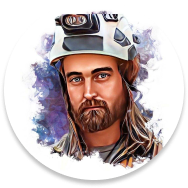
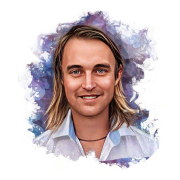
feat: team

diff --git a/src/views/Team.vue b/src/views/Team.vue
@@ -2,83 +2,209 @@
 	<div class="home min-h-full container">
 		<MenuHeader />
 
-		<div class="columns m-5 pt-5">
-			<div class="column is-5 info-div p-5">
-				<p class="font-size-40-light-info">James</p>
-				<p class="font-size-22-light-info text-word-wrap">
[1 lines of base64/hex data omitted]
-				</p>
+		<div class="columns m-5 p-4">
+			<div class="column is-5 info-div p-4">
+				<div class="level p-4">
+					<div class="level-left">
+						<p class="font-size-40-light-info p-4">Josiah</p>
+					</div>
+					<!-- <div class="level-right">
+						<img src="/josiah.png" ratio="110by28" />
+					</div> -->
+				</div>
+
+				<div class="p-4">
+					<p class="font-size-22-light-info text-word-wrap">
+						Josiah is the founder and leader of DeStore, the first
+						phygital marketplace in Web3.0. He is interested in
+						partnering with organizations to showcase the value of
+						phygital assets and their utility in web3.0. Josiah
+						believes that Web 3.0 has the power to drastically
+						change commerce and is dedicated to making this a
+						reality.
+					</p>
+				</div>
+				<div class="level p-4">
+					<div class="level-left">
+						<img src="/linkedin.png" ratio="110by28" />
+					</div>
+
+					<div class="level-right">
+						<img src="/twitter.png" ratio="110by28" />
+					</div>
+				</div>
 			</div>
 			<div class="column is-2"></div>
-			<div class="column is-5 info-div p-5">
-				<p class="font-size-40-light-info">James</p>
-				<p class="font-size-22-light-info text-word-wrap">
[1 lines of base64/hex data omitted]
-				</p>
+			<div class="column is-5 info-div p-4">
+				<div class="level p-4">
+					<div class="level-left">
+						<p class="font-size-40-light-info p-4">James</p>
+					</div>
+				</div>
+
+				<div class="p-4">
+					<p class="font-size-22-light-info text-word-wrap">
+						James is a highly experienced software engineer with a
+						background in blockchain technology. He is passionate
+						about using decentralization to make a positive impact
+						on the world through commerce. He has been working on
+						the DeStore project since its inception and is committed
+						to bringing its disruptive vision to fruition.
+					</p>
+				</div>
+				<div class="level p-4">
+					<div class="level-left">
+						<img src="/linkedin.png" ratio="110by28" />
+					</div>
+
+					<div class="level-right">
+						<img src="/twitter.png" ratio="110by28" />
+					</div>
+				</div>
 			</div>
 		</div>
 
-		<div class="columns m-5 pt-5">
-			<div class="column is-5 info-div p-5">
-				<p class="font-size-40-light-info">Josiah</p>
-				<p class="font-size-22-light-info text-word-wrap">
[1 lines of base64/hex data omitted]
-				</p>
+		<div class="columns m-5 p-4">
+			<div class="column is-5 info-div p-4">
+				<div class="level p-4">
+					<div class="level-left">
+						<p class="font-size-40-light-info p-4">Lisa</p>
+					</div>
+					<!-- <div class="level-right">
+						<img src="/josiah.png" ratio="110by28" />
+					</div> -->
+				</div>
+
+				<div class="p-4">
+					<p class="font-size-22-light-info text-word-wrap">
+						Lisa van Heijningen is highly experienced in
+						communication and organizational skills, and has an eye
+						for quality and problem-solving. She is ambitious and a
+						quick learner, and is eager to contribute to teamwork
+						and a positive work environment. Lisa has also worked
+						with the Discovery Channel and was a part of the
+						building of DeStore, the first phygital marketplace in
+						Web3.0.
+					</p>
+				</div>
+				<div class="level p-4">
+					<div class="level-left">
+						<img src="/linkedin.png" ratio="110by28" />
+					</div>
+
+					<div class="level-right">
+						<img src="/twitter.png" ratio="110by28" />
+					</div>
+				</div>
 			</div>
 			<div class="column is-2"></div>
-			<div class="column is-5 info-div p-5">
-				<p class="font-size-40-light-info">Josiah</p>
-				<p class="font-size-22-light-info text-word-wrap">
[1 lines of base64/hex data omitted]
-				</p>
+			<div class="column is-5 info-div p-4">
+				<div class="level p-4">
+					<div class="level-left">
+						<p class="font-size-40-light-info p-4">Levi</p>
+					</div>
+				</div>
+
+				<div class="p-4">
+					<p class="font-size-22-light-info text-word-wrap">
+						Levi is a recent graduate with a background in IT and a
+						passion for the intersection of the physical and digital
+						worlds. He has experience working on the DeStore
+						project, which is a marketplace for phygital assets on
+						the decentralized web. He is excited to continue working
+						in this field and seeing the potential of the phygital
+						future.
+					</p>
+				</div>
+				<div class="level p-4">
+					<div class="level-left">
+						<img src="/linkedin.png" ratio="110by28" />
+					</div>
+
+					<div class="level-right">
+						<img src="/twitter.png" ratio="110by28" />
+					</div>
+				</div>
 			</div>
 		</div>
 
-		<div class="columns m-5 pt-5">
-			<div class="column is-5 info-div p-5">
-				<p class="font-size-40-light-info">Pili</p>
-				<p class="font-size-22-light-info text-word-wrap">
[1 lines of base64/hex data omitted]
-				</p>
+		<div class="columns m-5 p-4">
+			<div class="column is-5 info-div p-4">
+				<div class="level p-4">
+					<div class="level-left">
+						<p class="font-size-40-light-info p-4">Christian</p>
+					</div>
+					<!-- <div class="level-right">
+						<img src="/josiah.png" ratio="110by28" />
+					</div> -->
+				</div>
+
+				<div class="p-4">
+					<p class="font-size-22-light-info text-word-wrap">
+						Christian is a veteran of multiple Burning Man festivals
+						and has successfully founded and leads a festival
+						community of 2,000 people in Australia. He is known for
+						his charisma and positive attitude, which make him
+						well-suited to lead the community of decentralized
+						autonomous organizations (DAOs) that will be onboarded
+						to DeStore.
+					</p>
+				</div>
+				<div class="level p-4">
+					<div class="level-left">
+						<img src="/linkedin.png" ratio="110by28" />
+					</div>
+
+					<div class="level-right">
+						<img src="/twitter.png" ratio="110by28" />
+					</div>
+				</div>
 			</div>
 			<div class="column is-2"></div>
-			<div class="column is-5 info-div p-5">
-				<p class="font-size-40-light-info">Pili</p>
-				<p class="font-size-22-light-info text-word-wrap">
[1 lines of base64/hex data omitted]
-				</p>
+			<div class="column is-5 info-div p-4">
+				<div class="level p-4">
+					<div class="level-left">
+						<p class="font-size-40-light-info p-4">
+							New Position.!
+						</p>
+					</div>
+				</div>
+
+				<div class="p-4">
+					<p class="font-size-22-light-info text-word-wrap">
+						DeStore is a pioneer in the world of Web3.0 and is
+						looking for a talented software developer to join our
+						team. The ideal candidate will have experience in both
+						development and blockchain technology. you will need to
+						be passionate about commerce the decentralised future we
+						are building.
+					</p>
+				</div>
+				<div class="level p-4">
+					<div class="level-left">
+						<img src="/linkedin.png" ratio="110by28" />
+					</div>
+
+					<div class="level-right">
+						<img src="/twitter.png" ratio="110by28" />
+					</div>
+				</div>
 			</div>
 		</div>
 
-		<div class="columns m-5 pt-5">
-			<div class="column is-5 info-div p-5">
-				<p class="font-size-40-light-info">Levi Kotzur</p>
-				<p class="font-size-22-light-info text-word-wrap">
[1 lines of base64/hex data omitted]
-				</p>
-			</div>
-			<div class="column is-2"></div>
-			<div class="column is-5 info-div p-5">
-				<p class="font-size-40-light-info">Levi Kotzur</p>
-				<p class="font-size-22-light-info text-word-wrap">
[1 lines of base64/hex data omitted]
-				</p>
-			</div>
-		</div>
-
-		<div>
+		<div class="p-4">
 			<p class="font-size-100 pt-5 partner-text">Partners</p>
 			<hr style="background-color: rgb(121, 121, 121); height: 4px" />
 		</div>
 
-		<div class="columns mt-5">
+		<div class="columns mt-5 p-4">
 			<div class="column is-5">
-				<b-image src="/aem.png" ratio="590by200"></b-image>
+				<b-image src="/darwinia.png" ratio="810by100"></b-image>
 			</div>
-			<div class="column is-2">
-			</div>
+		</div>
+		<div class="columns mt-5 p-4">
 			<div class="column is-5">
-				<b-image src="/metaDjo.png" ratio="620by200"></b-image>
+				<b-image src="/future.png" ratio="760by130"></b-image>
 			</div>
 		</div>
 	</div>
@@ -112,6 +238,6 @@ export default class Team extends Vue {}
 	justify-content: center;
 }
 .partner-text {
-	font-family: 'Inter';
+	text-align: left;
 }
 </style>

diff --git a/src/components/MenuHeader.vue b/src/components/MenuHeader.vue
@@ -8,30 +8,20 @@
 
 		<template #start>
 			<b-navbar-item>
-				<b-button type="is-ghost" class="font-size-24"
-					><a href="https://destore.network/"
+				<b-button class="font-size-24"  type="is-ghost"
+					><a href="https://destore.network/" class="navbar-head-color"
 						>Marketplace</a
 					></b-button
 				>
 			</b-navbar-item>
-			<b-navbar-item>
-				<b-button
-					@click="Information"
-					type="is-ghost"
-					class="font-size-24"
-				>
-					Information</b-button
-				>
+			<b-navbar-item tag="router-link" :to="{ path: '/information' }">
+				<b-button class="font-size-24 navbar-head-color" type="is-ghost"> Information</b-button>
 			</b-navbar-item>
-			<b-navbar-item>
-				<b-button @click="Contact" type="is-ghost" class="font-size-24">
-					Contact</b-button
-				>
+			<b-navbar-item tag="router-link" :to="{ path: '/contact' }">
+				<b-button class="font-size-24 navbar-head-color" type="is-ghost"> Contact</b-button>
 			</b-navbar-item>
-			<b-navbar-item>
-				<b-button @click="Team" type="is-ghost" class="font-size-24">
-					Team</b-button
-				>
+			<b-navbar-item tag="router-link" :to="{ path: '/team' }">
+				<b-button class="font-size-24 navbar-head-color" type="is-ghost"> Team</b-button>
 			</b-navbar-item>
 		</template>
 	</b-navbar>
@@ -63,9 +53,11 @@ export default class MenuHeader extends Vue {
 </script>
 
 <style scoped>
-
 .navbarCustom {
 	padding-left: 0px;
 	padding-right: 0px;
+}
+.navbar-head-color{
+	color: #321B68 !important;
 }
 </style>

diff --git a/src/styles/global.scss b/src/styles/global.scss
@@ -19,8 +19,29 @@ body {
     }
   }
 
+  .text-word-wrap{
+    word-wrap: break-word;
+  }
+
+  .button.is-ghost {
+    background: none;
+    border-color: transparent;
+    color: #321B68 !important;
+    text-decoration: none;
+  }
 
   //font Control
+  .font-size-100{
+    font-family: 'Inter';
+    font-style: italic;
+    font-weight: 700;
+    font-size: 100px;
+    line-height: 121px;
+    color: #FFFFFF;
+    @include mobile {
+      font-size: 40px;
+    }
+  }
 
   .font-size-40-light-info{
     font-family: 'Work Sans';

diff --git a/src/components/Footer.vue b/src/components/Footer.vue
@@ -84,6 +84,8 @@ export default class Footer extends Vue {
     flex-direction: column;
     padding-left: 16px;
     padding-right: 16px;
+    padding-top:16px;
+    padding-bottom:16px;
     height: 85px;
 
     @include desktop {
